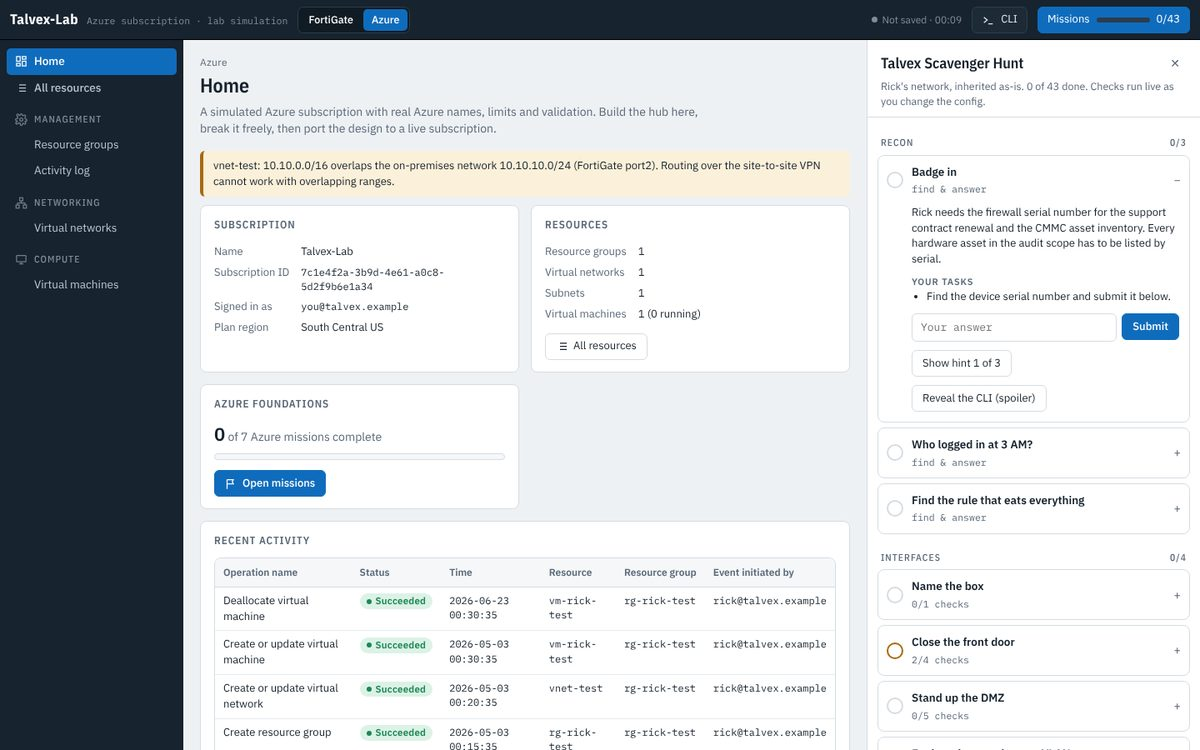
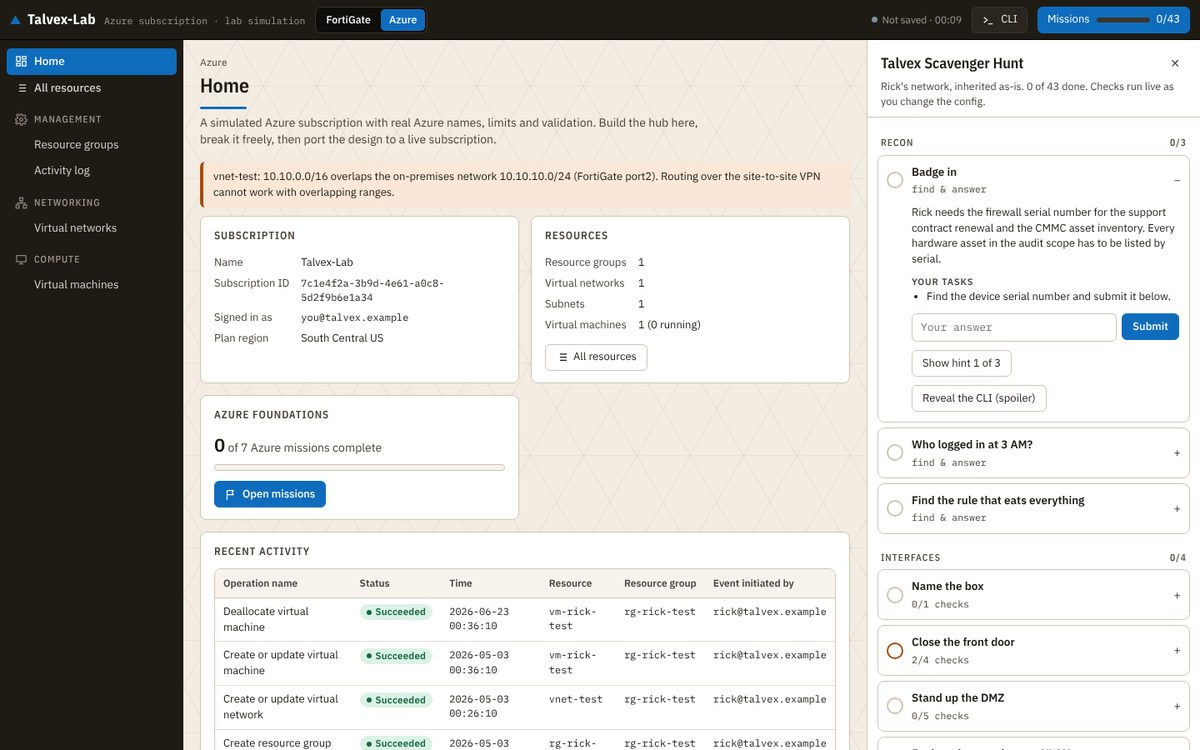
Pizzazz the firewall lab: portfolio palette, title rule, triangle mark, lattice; contrast issues 24 -> 0; refreshed tour screenshots
Claude-Session: https://claude.ai/code/session_01KpD5MzdGJqJauT2ULgC6k8

Changed region(s): [[0.0, 0.0, 1.0, 1.0], [0.7708, 0.368, 0.8017, 0.3987]]

diff --git a/labs/talvex-firewall/index.html b/labs/talvex-firewall/index.html
@@ -1,7 +1,6 @@
 <!doctype html>
 <html lang="en"><head><meta charset="utf-8"><meta name="viewport" content="width=device-width,initial-scale=1">
 <style>body{margin:0}[hidden]{display:none!important}</style>
-</head><body>
 <meta name="description" content="Talvex Firewall Lab: an interactive firewall and Azure training simulation with 43 missions, by Joshua Richard.">
 <meta property="og:title" content="Talvex Firewall Lab · Joshua Richard">
 <meta property="og:description" content="An interactive firewall and Azure training simulation with 43 missions. Runs in your browser.">
@@ -14,6 +13,10 @@
 <meta name="claude:viewport-fit-sides" content="cover">
 <link rel="preconnect" href="https://fonts.googleapis.com">
 <link rel="stylesheet" href="https://fonts.googleapis.com/css2?family=IBM+Plex+Mono:wght@400;500;600&family=IBM+Plex+Sans+Condensed:wght@500;600;700&family=IBM+Plex+Sans:wght@400;500;600&display=swap">
+<link rel="icon" href="../../assets/favicon.svg" type="image/svg+xml">
+<meta name="theme-color" content="#1E1B15">
+<meta name="pizzazz-recipe" content='{"pz":1,"kit":"my-color-profile","concept":"Spec Sheet \u00b7 Lab","family":"refined","dev":{"intensity":"standard","accent":"amber (Azure view keeps Azure blue)","structure":"palette swap + title rule"},"sig":"amber title rule + triangle mark","pal":{"pri":"#1E1B15","sec":"#4A4339","tint":"#F7F3EC","zeb":"#F2ECE2","mut":"#4A4339","ftr":"#A3988A","hair":"#CFC4B2","acc":"#E0A82E","watch":"#A84A0F"},"font":{"h":"IBM Plex Sans Condensed","b":"IBM Plex Sans"},"date":"2026-11-20"}'>
+</head><body>
 <style>
 /* Layout: appliance console. Dark rail nav + top status bar, working pane in the middle, mission drawer on the right, terminal dock at the bottom. */
 :root {
@@ -277,6 +280,49 @@ textarea.inp { height: auto; min-height: 70px; padding: 8px 10px; resize: vertic
   .main { padding-left: max(16px, env(safe-area-inset-left, 0px)); padding-right: max(16px, env(safe-area-inset-right, 0px)); }
 }
 @media (prefers-reduced-motion: reduce) { * { transition: none !important; } }
+</style>
+<style id="pz-lab">
+/* ---------- pizzazz: Spec Sheet palette (charcoal + amber) to match the portfolio. The Azure view keeps its Azure blue. ---------- */
+:root {
+  --bg: #F2ECE2; --panel: #FFFFFF; --panel-2: #F7F3EC; --ink: #1E1B15; --muted: #4A4339; --line: #CFC4B2; --line-2: #E6DED0;
+  --accent: #8A5A00; --accent-ink: #FFFFFF; --accent-soft: #F6E9CF;
+  --ok: #14683F; --ok-soft: #DCF2E6; --warn: #A84A0F; --warn-soft: #FBE7D7;
+  --rail: #1E1B15; --rail-ink: #D9D1C4; --rail-dim: #A3988A; --rail-hi: #2D2920; --rail-active: #E0A82E; --rail-active-ink: #1E1B15;
+  --term-bg: #12100C; --term-ink: #E6DCCB; --term-dim: #9A8F7C;
+  --pz-lattice: rgba(39, 36, 29, .055);
+}
+@media (prefers-color-scheme: dark) { :root:not([data-theme="light"]) {
+  --bg: #16140F; --panel: #211E18; --panel-2: #2A261F; --ink: #F3EEE6; --muted: #BDB3A3; --line: #3A352C; --line-2: #2D2922;
+  --accent: #E8B84A; --accent-ink: #1E1B15; --accent-soft: #3A3018;
+  --warn: #F0955A; --warn-soft: #3A2416;
+  --rail: #0F0D0A; --rail-ink: #D9D1C4; --rail-dim: #968B79; --rail-hi: #221F19; --rail-active: #E0A82E;
+  --pz-lattice: rgba(243, 238, 230, .035);
+} }
+:root[data-theme="dark"] {
+  --bg: #16140F; --panel: #211E18; --panel-2: #2A261F; --ink: #F3EEE6; --muted: #BDB3A3; --line: #3A352C; --line-2: #2D2922;
+  --accent: #E8B84A; --accent-ink: #1E1B15; --accent-soft: #3A3018;
+  --warn: #F0955A; --warn-soft: #3A2416;
+  --rail: #0F0D0A; --rail-ink: #D9D1C4; --rail-dim: #968B79; --rail-hi: #221F19; --rail-active: #E0A82E;
+  --pz-lattice: rgba(243, 238, 230, .035);
+}
+/* amber highlight takes dark text (white on amber is unreadable); Azure view keeps white on blue */
+:root:not([data-view="azure"]) .tbtn.on,
+:root:not([data-view="azure"]) .viewsw button[aria-pressed="true"],
+:root:not([data-view="azure"]) .rail a.active { color: var(--rail-active-ink); }
+/* warm the hard-coded top-bar colours */
+.tbtn { border-color: #3A352C; background: #2A261F; color: #EDE5D7; }
+.tbtn:not(.on):hover { background: #353027; }
+.prog .bar { background: #3A352C; }
+.viewsw { border-color: #3A352C; background: #0F0D0A; }
+/* signature: a small triangle mark on the brand, and an amber rule under every page title */
+.brand b::before { content: ""; display: inline-block; width: 13px; height: 11px; margin-right: 8px; background: var(--rail-active); clip-path: polygon(50% 0, 100% 100%, 0 100%); }
+.main h1::after { content: ""; display: block; width: 56px; height: 3px; border-radius: 2px; background: var(--accent); margin: 8px 0 6px; }
+/* a faint triangle lattice behind the working pane */
+.main { background-image:
+    linear-gradient(60deg, transparent 49.3%, var(--pz-lattice) 49.6%, var(--pz-lattice) 50.4%, transparent 50.7%),
+    linear-gradient(-60deg, transparent 49.3%, var(--pz-lattice) 49.6%, var(--pz-lattice) 50.4%, transparent 50.7%),
+    linear-gradient(0deg, transparent 49.2%, var(--pz-lattice) 49.6%, var(--pz-lattice) 50.4%, transparent 50.8%);
+  background-size: 64px 110.85px; background-attachment: local; }
 </style>
 
 <div class="app" id="app">
@@ -3518,7 +3564,7 @@ if (typeof module !== 'undefined') module.exports = LIVE;
   $('#startRoot').innerHTML = `<div class="modal-back"><div class="modal start" role="dialog" aria-modal="true" aria-label="Start the lab"><header><h2>Talvex Firewall Lab</h2></header><div class="body">
     <p style="margin:0">You are taking over the Talvex Components firewall as the old IT guy left it. The ${MISSIONS.length} missions walk you from reading the logs to a hardened box with a site-to-site tunnel into Azure, and then into building the Azure side itself, while live traffic and a few live attackers keep the logs moving.</p>
     <div class="notice"><b>Nothing is saved.</b> Closing or reloading this page resets the firewall, the missions and the traffic. Plan on one sitting of about 60 to 75 minutes. If you must step away, System → Backup &amp; Reset can copy your config to paste back later.</div>
-    <ul style="margin:0;padding-left:18px"><li>Missions open on the right. Checks run live as you work.</li><li>Policy Lookup shows which rule handles any packet.</li><li>The CLI button opens a console that shares the same config.</li><li>The FortiGate | Azure switch at the top flips between the firewall and a simulated Azure subscription.</li><li>New threats unlock as you progress. Watch the logs.</li></ul><p style="margin:12px 0 0;font-size:12px;opacity:.75">Independent training simulation by Joshua Richard. Not affiliated with or endorsed by Fortinet; FortiGate, FortiOS and FortiGuard are trademarks of Fortinet, Inc. Talvex is a fictional company and all data here is made up.</p>
+    <ul style="margin:0;padding-left:18px"><li>Missions open on the right. Checks run live as you work.</li><li>Policy Lookup shows which rule handles any packet.</li><li>The CLI button opens a console that shares the same config.</li><li>The FortiGate | Azure switch at the top flips between the firewall and a simulated Azure subscription.</li><li>New threats unlock as you progress. Watch the logs.</li></ul><p style="margin:12px 0 0;font-size:12px;opacity:.75">Independent training simulation by Joshua Richard. Not affiliated with or endorsed by Fortinet; FortiGate, FortiOS and FortiGuard are trademarks of Fortinet, Inc. Talvex is a fictional company and all data here is made up. <a href="../../">Back to the portfolio</a></p>
   </div><footer><button class="btn primary" id="startBtn" type="button">Start the lab</button></footer></div></div>`;
   $('#startBtn').addEventListener('click', startLab);
   $('#startBtn').focus();
